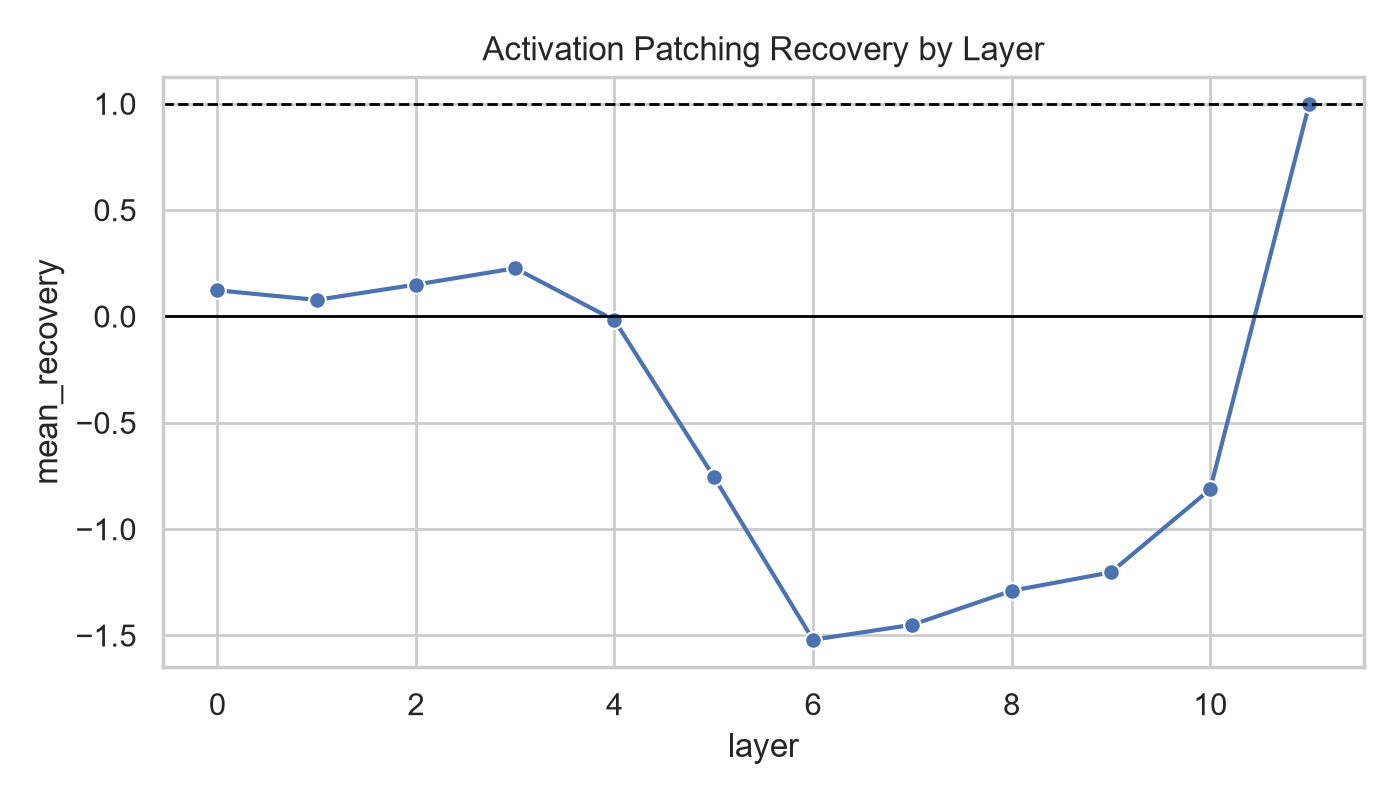
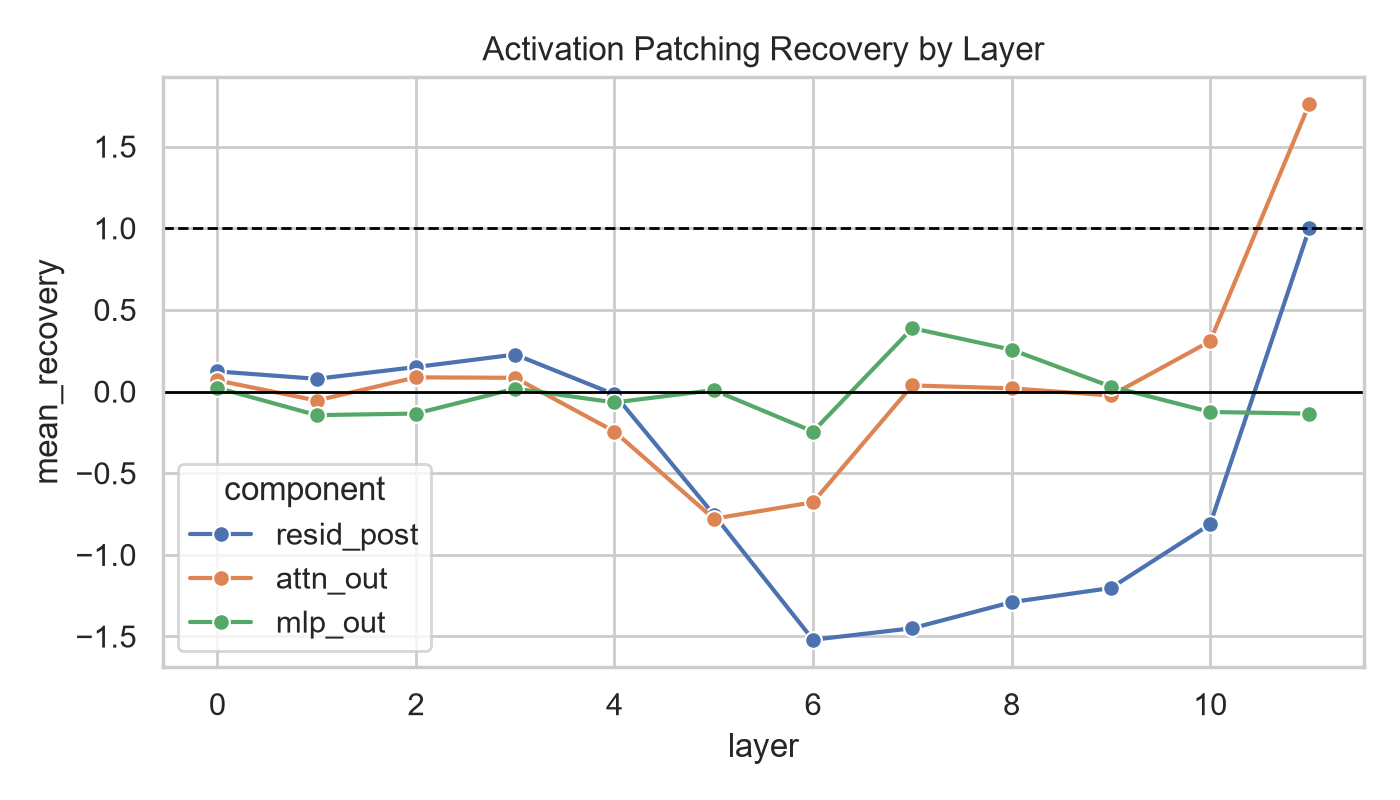
Add module-level activation patching

diff --git a/scripts/run_activation_patching.py b/scripts/run_activation_patching.py
@@ -17,6 +17,11 @@ def parse_args() -> argparse.Namespace:
     parser.add_argument("--max-pairs", type=int, default=64)
     parser.add_argument("--offset", type=int, default=17)
     parser.add_argument("--prompt-template", default="The capital of {country} is")
+    parser.add_argument(
+        "--components",
+        default="resid_post,attn_out,mlp_out",
+        help="Comma-separated components to patch: resid_post,attn_out,mlp_out",
+    )
     return parser.parse_args()
 
 
@@ -63,10 +68,21 @@ def capital_logit_diff(logits: torch.Tensor, clean_tokens: list[int], corrupt_to
     return final_logits[rows, clean_index] - final_logits[rows, corrupt_index]
 
 
+COMPONENT_TO_HOOK = {
+    "resid_post": "blocks.{layer}.hook_resid_post",
+    "attn_out": "blocks.{layer}.hook_attn_out",
+    "mlp_out": "blocks.{layer}.hook_mlp_out",
+}
+
+
 def main() -> None:
     args = parse_args()
     model = load_hooked_transformer(args.model)
     examples = build_capital_recall_pairs(model, args.max_pairs, args.offset, args.prompt_template)
+    components = [component.strip() for component in args.components.split(",") if component.strip()]
+    unknown = sorted(set(components).difference(COMPONENT_TO_HOOK))
+    if unknown:
+        raise ValueError(f"Unknown components: {unknown}. Valid: {sorted(COMPONENT_TO_HOOK)}")
 
     clean_prompts = [example["clean_prompt"] for example in examples]
     corrupt_prompts = [example["corrupt_prompt"] for example in examples]
@@ -85,37 +101,41 @@ def main() -> None:
     denominator = clean_diff - corrupt_diff
 
     rows = []
-    for layer in range(model.cfg.n_layers):
-        clean_resid = clean_cache[f"blocks.{layer}.hook_resid_post"]
+    for component in components:
+        for layer in range(model.cfg.n_layers):
+            hook_name = COMPONENT_TO_HOOK[component].format(layer=layer)
+            clean_activation = clean_cache[hook_name]
 
-        def patch_resid(resid, hook):
-            resid[:, -1, :] = clean_resid[:, -1, :]
-            return resid
+            def patch_activation(activation, hook, clean_activation=clean_activation):
+                activation[:, -1, :] = clean_activation[:, -1, :]
+                return activation
 
-        with torch.no_grad():
-            patched_logits = model.run_with_hooks(
-                corrupt_tokens,
-                fwd_hooks=[(f"blocks.{layer}.hook_resid_post", patch_resid)],
+            with torch.no_grad():
+                patched_logits = model.run_with_hooks(
+                    corrupt_tokens,
+                    fwd_hooks=[(hook_name, patch_activation)],
+                )
+            patched_diff = capital_logit_diff(
+                patched_logits, clean_answer_tokens, corrupt_answer_tokens
+            ).detach()
+            recovery = (patched_diff - corrupt_diff) / (denominator + 1e-8)
+            rows.append(
+                {
+                    "component": component,
+                    "hook_name": hook_name,
+                    "layer": layer,
+                    "n_pairs": len(examples),
+                    "clean_logit_diff": float(clean_diff.mean()),
+                    "corrupt_logit_diff": float(corrupt_diff.mean()),
+                    "patched_logit_diff": float(patched_diff.mean()),
+                    "mean_recovery": float(recovery.mean()),
+                    "median_recovery": float(recovery.median()),
+                }
             )
-        patched_diff = capital_logit_diff(
-            patched_logits, clean_answer_tokens, corrupt_answer_tokens
-        ).detach()
-        recovery = (patched_diff - corrupt_diff) / (denominator + 1e-8)
-        rows.append(
-            {
-                "layer": layer,
-                "n_pairs": len(examples),
-                "clean_logit_diff": float(clean_diff.mean()),
-                "corrupt_logit_diff": float(corrupt_diff.mean()),
-                "patched_logit_diff": float(patched_diff.mean()),
-                "mean_recovery": float(recovery.mean()),
-                "median_recovery": float(recovery.median()),
-            }
-        )
-        print(
-            f"layer={layer:02d} patched_diff={patched_diff.mean():+.3f} "
-            f"mean_recovery={recovery.mean():+.3f}"
-        )
+            print(
+                f"component={component:10s} layer={layer:02d} "
+                f"patched_diff={patched_diff.mean():+.3f} mean_recovery={recovery.mean():+.3f}"
+            )
 
     out_path = Path(args.out)
     out_path.parent.mkdir(parents=True, exist_ok=True)

diff --git a/scripts/plot_results.py b/scripts/plot_results.py
@@ -88,7 +88,10 @@ def main() -> None:
     if patching_path.exists():
         patching = pd.read_csv(patching_path)
         plt.figure(figsize=(7, 4))
-        sns.lineplot(data=patching, x="layer", y="mean_recovery", marker="o")
+        if "component" in patching.columns:
+            sns.lineplot(data=patching, x="layer", y="mean_recovery", hue="component", marker="o")
+        else:
+            sns.lineplot(data=patching, x="layer", y="mean_recovery", marker="o")
         plt.axhline(0, color="black", linewidth=1)
         plt.axhline(1, color="black", linewidth=1, linestyle="--")
         plt.title("Activation Patching Recovery by Layer")

diff --git a/reports/project_report.md b/reports/project_report.md
@@ -202,9 +202,15 @@ corrupt: The capital of Germany is
 logit(" Paris") - logit(" Berlin")
 ```
 
-然后在 corrupt prompt 的前向传播中，将某一层最后 token 位置的 `hook_resid_post` 替换为 clean prompt 对应层的激活，观察目标 logit difference 是否恢复。
+然后在 corrupt prompt 的前向传播中，将某一层最后 token 位置的 clean activation patch 到 corrupt run 中，观察目标 logit difference 是否恢复。当前实验比较了三类 hook：
 
-当前实验自动跳过 GPT-2 tokenizer 中不是 single token 的首都名，最终使用 22 对 single-token capital pairs。结果如下：
+```text
+blocks.{layer}.hook_resid_post
+blocks.{layer}.hook_attn_out
+blocks.{layer}.hook_mlp_out
+```
+
+当前实验自动跳过 GPT-2 tokenizer 中不是 single token 的首都名，最终使用 22 对 single-token capital pairs。首先看 residual stream patching：
 
 | Layer | Patched Logit Diff | Mean Recovery |
 |---:|---:|---:|
@@ -223,7 +229,15 @@ logit(" Paris") - logit(" Berlin")
 
 其中 clean baseline 的平均 logit difference 为 `+0.264`，corrupt baseline 为 `-1.039`。第 11 层 patch 后恢复到 `+0.264`，说明 residual stream 最后一层携带了足以恢复目标首都输出的信息。第 9-10 层 patched logit diff 也明显向 clean 方向移动，但尚未完全恢复。
 
-这个结果提供了比线性 probe 更强的因果证据：在 capital recall 任务中，替换关键层 residual stream 会直接改变目标首都 token 的输出 logit。它也提示，当前的 causal effect 更靠近模型后层或输出前 residual stream，而不是早期层。
+模块级 patching 进一步显示：
+
+| Component | Best Layer | Patched Logit Diff | Mean Recovery | Median Recovery |
+|---|---:|---:|---:|---:|
+| resid_post | 11 | 0.264 | 1.000 | 1.000 |
+| attn_out | 11 | -0.672 | 1.762 | 1.077 |
+| mlp_out | 7 | -1.022 | 0.388 | 0.074 |
+
+这个结果提供了比线性 probe 更强的因果证据：在 capital recall 任务中，替换关键层 residual stream 会直接改变目标首都 token 的输出 logit。模块对比提示，后层 attention output 对恢复目标首都信息有明显贡献，而 MLP output 的单独 patching 效果较弱。需要注意的是，`attn_out` 的 mean recovery 较高，但平均 patched logit diff 仍未翻正，因此它更适合被解释为“对恢复有强贡献”，而不是“单独足以完成恢复”。整体 causal effect 最清晰地出现在最后层 residual stream。
 
 对应结果文件：
 
@@ -238,7 +252,7 @@ figures/activation_patching_capital_recall.png
 
 1. 在混合领域事实判断中，GPT-2-small 的 truth/false 线性结构较弱。
 2. 在结构一致的 capital fact verification 中，truth/false 信息可被高精度线性 probe 读取，最佳 AUC 达到 0.953。
-3. 在 capital recall 的 activation patching 中，后层 residual stream patching 可以恢复目标首都 logit，提供了初步因果证据。
+3. 在 capital recall 的 activation patching 中，后层 residual stream patching 可以恢复目标首都 logit，模块级结果显示最后层 attention output 贡献明显，MLP output 单独贡献较弱。
 4. 可读性不等于可控性；当前 mean-difference steering 没有提升 true/false 输出判断，需要更强的 steering 方法。
 
 ## 9. 下一步计划
@@ -247,7 +261,7 @@ figures/activation_patching_capital_recall.png
 
 1. Probe-direction steering：使用 logistic regression probe 的权重方向，而不是简单 mean difference，作为 steering vector。
 2. Ablation：从 residual stream 中减去 truth direction，观察 probe separability 或模型输出是否下降。
-3. 将 activation patching 扩展到更多 hook 点，例如 `attn_out` 和 `mlp_out`。
+3. 将 activation patching 扩展到 head-level attention patching。
 4. 可选模型拓展：在 Qwen2.5-0.5B 或 Qwen2.5-0.5B-Instruct 上复现实验。
 
 ## 10. 个人分析

diff --git a/reports/report_outline.md b/reports/report_outline.md
@@ -49,12 +49,13 @@
 - Capital recall prompt.
 - Patch `hook_resid_post` from clean country prompt into corrupt country prompt.
 - Measure recovery of clean capital vs corrupt capital logit difference.
+- Module comparison now includes `hook_resid_post`, `hook_attn_out`, and `hook_mlp_out`.
 
 下一步：
 
 - Probe-direction steering.
 - Optional ablation of truth direction.
-- Patch `attn_out` and `mlp_out` separately.
+- Head-level attention patching.
 
 ## 8. Discussion
 

diff --git a/README.md b/README.md
@@ -86,3 +86,10 @@ python -m scripts.run_steering --layer 8 --domain capital,science
 ```powershell
 python -m scripts.run_probe_sweep --model gpt2-small --data data/facts.csv --out figures/probe_sweep.csv
 ```
+
+运行模块级 activation patching：
+
+```powershell
+python -m scripts.run_activation_patching --components resid_post,attn_out,mlp_out
+python -m scripts.plot_results --patching figures/activation_patching_capital_recall.csv
+```
